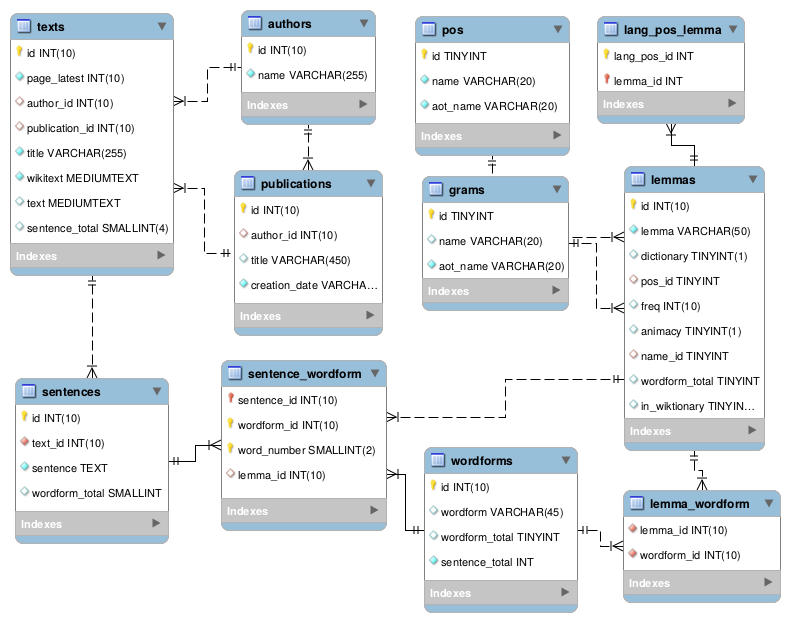
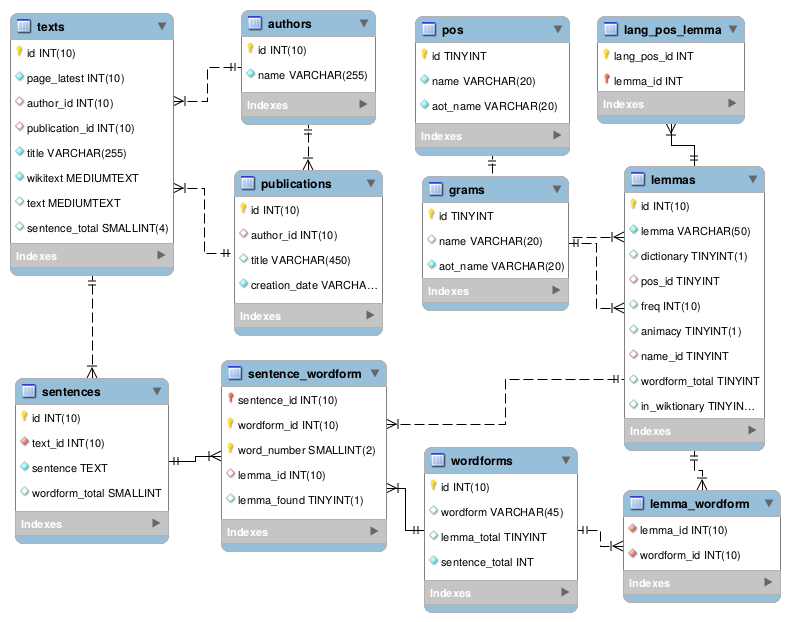
new fields in sentence_wordform

diff --git a/app/Http/Controllers/WordformController.php b/app/Http/Controllers/WordformController.php
@@ -350,4 +350,46 @@ print "<p><b>".$wordform->wordform."</b> (".$wordform->id.")\n";
             }
         }
     }
+    
+    /**
+     * Processing after lemmatizing
+     * Select wordforms with only one lemma (lemma_total=1)
+     * fill in sentence_wordform.lemma_id by lemma_wordform.lemma_id
+     * and sentence_wordform.lemma_found=1
+     * 
+     * select * from sentence_wordform where lemma_found=1
+     *
+     * @return \Illuminate\Http\Response
+     */
+    public function processWordformWithOneLemma()
+    {
+        $wordforms = Wordform::where('lemma_total',1)->take(1)->get();
+        foreach ($wordforms as $wordform) {
+            $query = "UPDATE sentence_wordform SET lemma_id=".$wordform->lemmas()->first()->id.
+                          ", lemma_found=1 WHERE wordform_id=".$wordform->id;
+print "<P>$query";            
+            DB::statement($query);
+        }
+    }
+    
+    /**
+     * Processing after lemmatizing
+     * Select wordforms without lemmas (lemma_total=0)
+     * fill in sentence_wordform.lemma_found=0
+     * 
+     * select * from sentence_wordform where lemma_found=0
+     *
+     * @return \Illuminate\Http\Response
+     */
+    public function processWordformWithoutLemmas()
+    {
+        $wordforms = Wordform::where('lemma_total',0)->take(1)->get();
+        foreach ($wordforms as $wordform) {
+            $query = "UPDATE sentence_wordform SET lemma_found=1 "
+                   . "WHERE wordform_id=".$wordform->id;
+print "<P>$query";            
+            DB::statement($query);
+        }
+    }
+    
 }

diff --git a/database/migrations/2017_09_20_143800_add_lemma_id_into_sentence_wordform.php b/database/migrations/2017_09_20_143800_add_lemma_id_into_sentence_wordform.php
@@ -1,0 +1,32 @@
+<?php
+
+use Illuminate\Support\Facades\Schema;
+use Illuminate\Database\Schema\Blueprint;
+use Illuminate\Database\Migrations\Migration;
+
+class AddLemmaIdIntoSentenceWordform extends Migration
+{
+    /**
+     * Run the migrations.
+     *
+     * @return void
+     */
+    public function up()
+    {
+        Schema::table('sentence_wordform', function (Blueprint $table) {
+            $table->unsignedInteger('lemma_id')->nullable()->after('word_number');
+        });
+    }
+
+    /**
+     * Reverse the migrations.
+     *
+     * @return void
+     */
+    public function down()
+    {
+        Schema::table('sentence_wordform', function (Blueprint $table) {
+            $table->dropColumn('lemma_id');            
+        });
+    }
+}

diff --git a/database/migrations/2017_09_20_115232_change_table_sentence_wordform.php b/database/migrations/2017_09_20_115232_change_table_sentence_wordform.php
@@ -1,0 +1,32 @@
+<?php
+
+use Illuminate\Support\Facades\Schema;
+use Illuminate\Database\Schema\Blueprint;
+use Illuminate\Database\Migrations\Migration;
+
+class ChangeTableSentenceWordform extends Migration
+{
+    /**
+     * Run the migrations.
+     *
+     * @return void
+     */
+    public function up()
+    {
+        Schema::table('sentence_wordform', function (Blueprint $table) {
+            $table->unsignedTinyInteger('lemma_found')->nullable();
+        });
+    }
+
+    /**
+     * Reverse the migrations.
+     *
+     * @return void
+     */
+    public function down()
+    {
+        Schema::table('sentence_wordform', function (Blueprint $table) {
+            $table->dropColumn('lemma_found');
+        });
+    }
+}

diff --git a/database/migrations/2017_09_20_153025_add_indexes_into_sentence_wordform.php b/database/migrations/2017_09_20_153025_add_indexes_into_sentence_wordform.php
@@ -1,0 +1,32 @@
+<?php
+
+use Illuminate\Support\Facades\Schema;
+use Illuminate\Database\Schema\Blueprint;
+use Illuminate\Database\Migrations\Migration;
+
+class AddIndexesIntoSentenceWordform extends Migration
+{
+    /**
+     * Run the migrations.
+     *
+     * @return void
+     */
+    public function up()
+    {
+        Schema::table('sentence_wordform', function (Blueprint $table) {
+            $table->index('lemma_found');
+        });
+    }
+
+    /**
+     * Reverse the migrations.
+     *
+     * @return void
+     */
+    public function down()
+    {
+        Schema::table('sentence_wordform', function (Blueprint $table) {
+            $table->dropIndex('sentence_wordform_lemma_found_index');
+        });
+    }
+}

diff --git a/routes/web.php b/routes/web.php
@@ -46,6 +46,8 @@ Route::get('/wordform/lemmatize_all','WordformController@lemmatizeAll');
 Route::get('/wordform/delete_bad_wordforms','WordformController@deleteBadWordforms');
 Route::get('/wordform/delete_apostrophs','WordformController@deleteWordsWithApostroph');
 Route::get('/wordform/count_sentences','WordformController@countSentences');
+Route::get('/wordform/process_with_one_lemma','WordformController@processWordformWithOneLemma');
+Route::get('/wordform/process_without_lemmas','WordformController@processWordformWithoutLemmas');
 
 Route::resource('/lemma', 'LemmaController',
                 ['names' => ['update' => 'lemma.update',

diff --git a/resources/views/stats.blade.php b/resources/views/stats.blade.php
@@ -11,7 +11,7 @@ Statistics
 @section('panel-body')
 <p>Number of texts: <big>{{$stats['text_total']}}</big></p>
 <p>Number of sentences: <big>{{$stats['sentence_total']}}</big>. 
-<br>From the consideration sentences with less than 3 words were deleted</p>
+<br>The sentences with less than 3 words were deleted</p>
 <p>Number of wordforms (W): <big>{{$stats['wordform_total']}}</big>
 <br>Number of wordforms without lemmas (Wo): <big>{{$stats['wordform0_total']}}</big>
 <br>Number of wordforms with predicted lemmas (Wp): <big>{{$stats['predicted_wordform_total']}}</big>

diff --git a/app/Models/Text.php b/app/Models/Text.php
@@ -221,7 +221,7 @@ print 16^4;
      * Split a paragraph into sentences
      * Punctuation marks are discarded
      *
-     * @param $text String text 
+     * @param $text String text of paragraph
      * @return Array collection of sentences
      */
     public static function splitIntoSentences($text): Array
